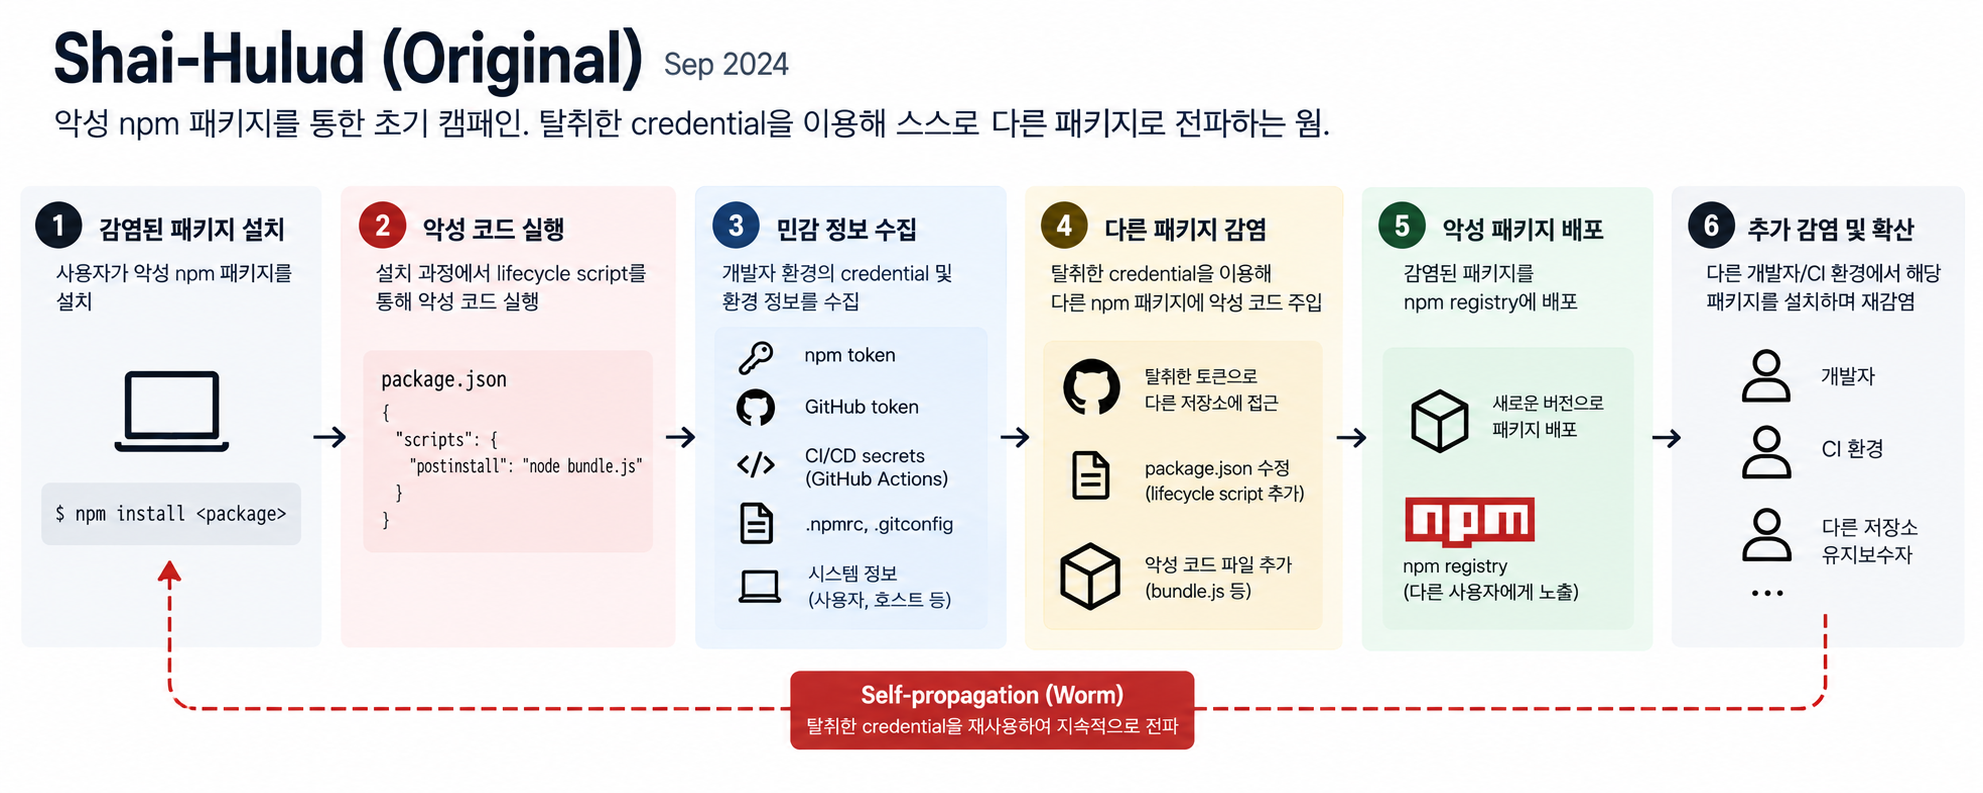
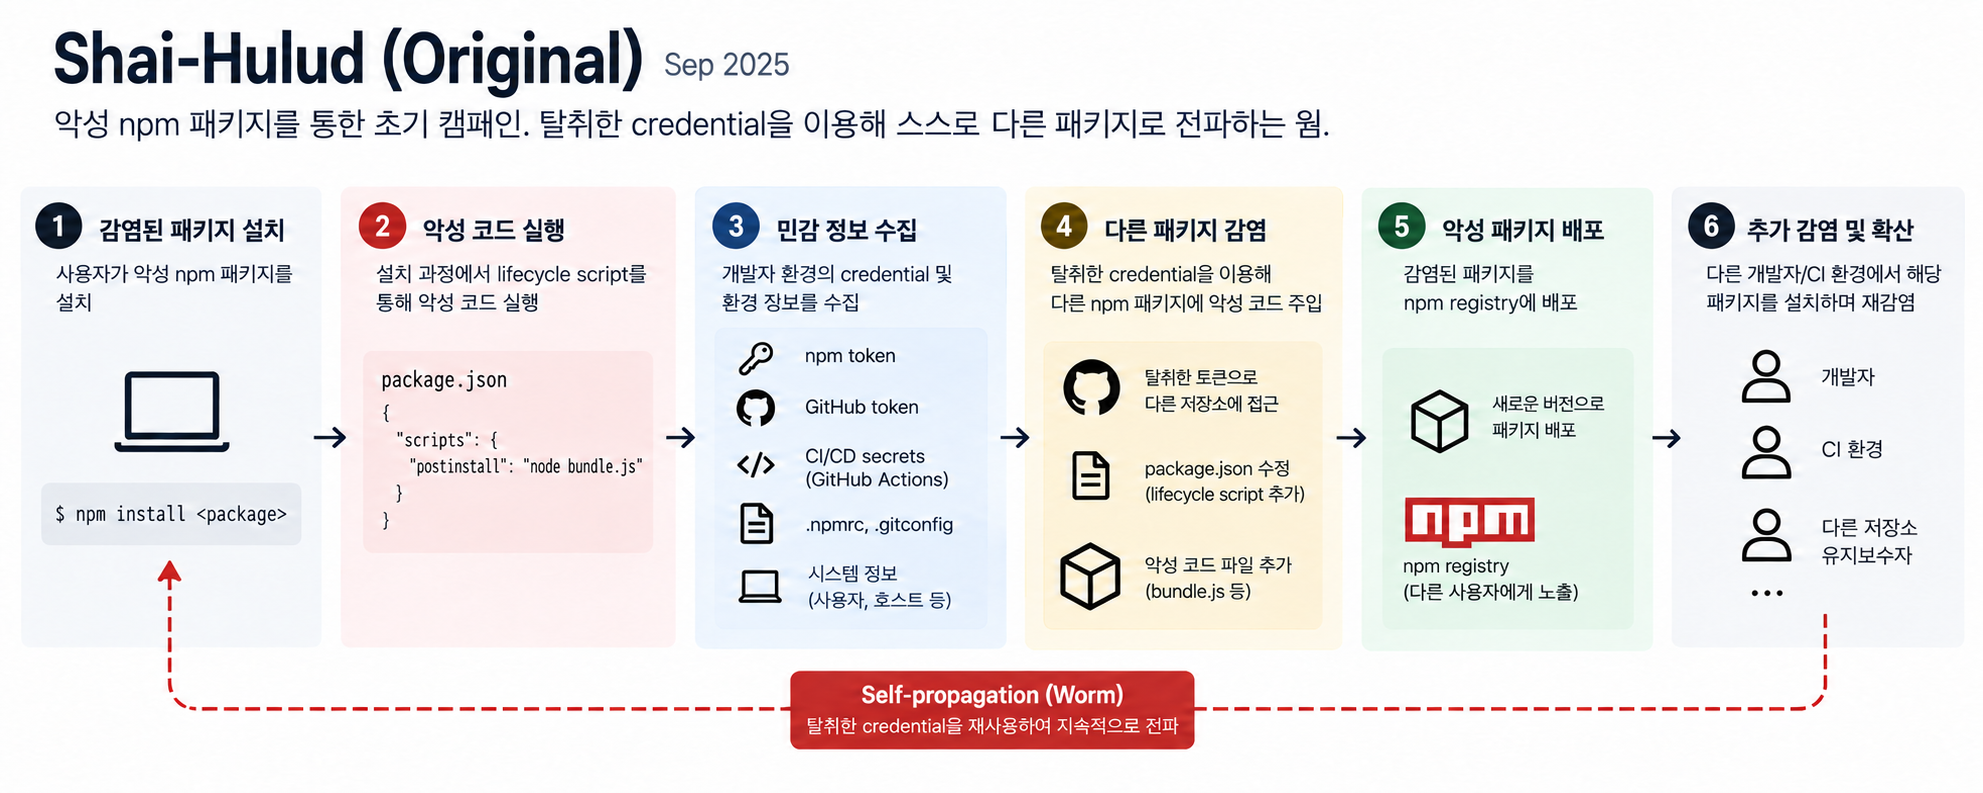
Fix canonical post links and correct Shai-Hulud diagrams

diff --git a/src/content/posts/shai-hulud-campaign-en/index.md b/src/content/posts/shai-hulud-campaign-en/index.md
@@ -74,15 +74,11 @@ I plan to examine the implementation in detail in a future post. For now, I will
 
 ## The Shai-Hulud campaign timeline
 
-![Shai-Hulud campaign timeline](/posts/shai-hulud-campaign/timeline.png)
-
-> The original diagrams retain their Korean labels. Date corrections: the first wave occurred in **September 2025**, not September 2024; Mini Shai-Hulud belongs to **April–May 2026**, not August 2026. The August 2026 campaign is **Here We Go Again**, discussed below. Follow the dates in the text rather than those in the timeline image.
+![Shai-Hulud campaign timeline](/posts/shai-hulud-campaign/timeline.png?v=2)
 
 ### 📍 The emergence of the Shai-Hulud worm — September 2025
 
-![The original Shai-Hulud worm in September 2025](/posts/shai-hulud-campaign/original-wave.png)
-
-*The “Sep 2024” label in this diagram should read “Sep 2025.”*
+![The original Shai-Hulud worm in September 2025](/posts/shai-hulud-campaign/original-wave.png?v=2)
 
 Shai-Hulud is a **self-propagating attack** discovered in the npm registry.
 

diff --git a/src/content/posts/shai-hulud-campaign-ko/index.md b/src/content/posts/shai-hulud-campaign-ko/index.md
@@ -75,15 +75,11 @@ Shai-Hulud의 구체적인 동작 방식은 다음 포스팅에서 자세히 살
 
 ## Shai-Hulud 캠페인의 타임라인
 
-![Shai-Hulud 캠페인 타임라인](/posts/shai-hulud-campaign/timeline.png)
-
-> 이미지의 날짜 정정: 최초 웨이브는 2024년 9월이 아닌 **2025년 9월**, Mini Shai-Hulud는 2026년 8월이 아닌 **2026년 4~5월**입니다. 2026년 8월 캠페인은 아래의 **Here We Go Again**에 해당합니다. 이미지의 연대 표기보다 본문의 타임라인을 기준으로 읽어주세요.
+![Shai-Hulud 캠페인 타임라인](/posts/shai-hulud-campaign/timeline.png?v=2)
 
 ### 📍Shai-Hulud Worm의 등장 - 2025년 9월
 
-![2025년 9월 최초 Shai-Hulud 웜](/posts/shai-hulud-campaign/original-wave.png)
-
-*이미지의 “Sep 2024”는 “Sep 2025”로 정정합니다.*
+![2025년 9월 최초 Shai-Hulud 웜](/posts/shai-hulud-campaign/original-wave.png?v=2)
 
 Shai-Hulud는 npm registry에서 발견된 **자기전파형(Self-propagating) 공격**입니다.
 
